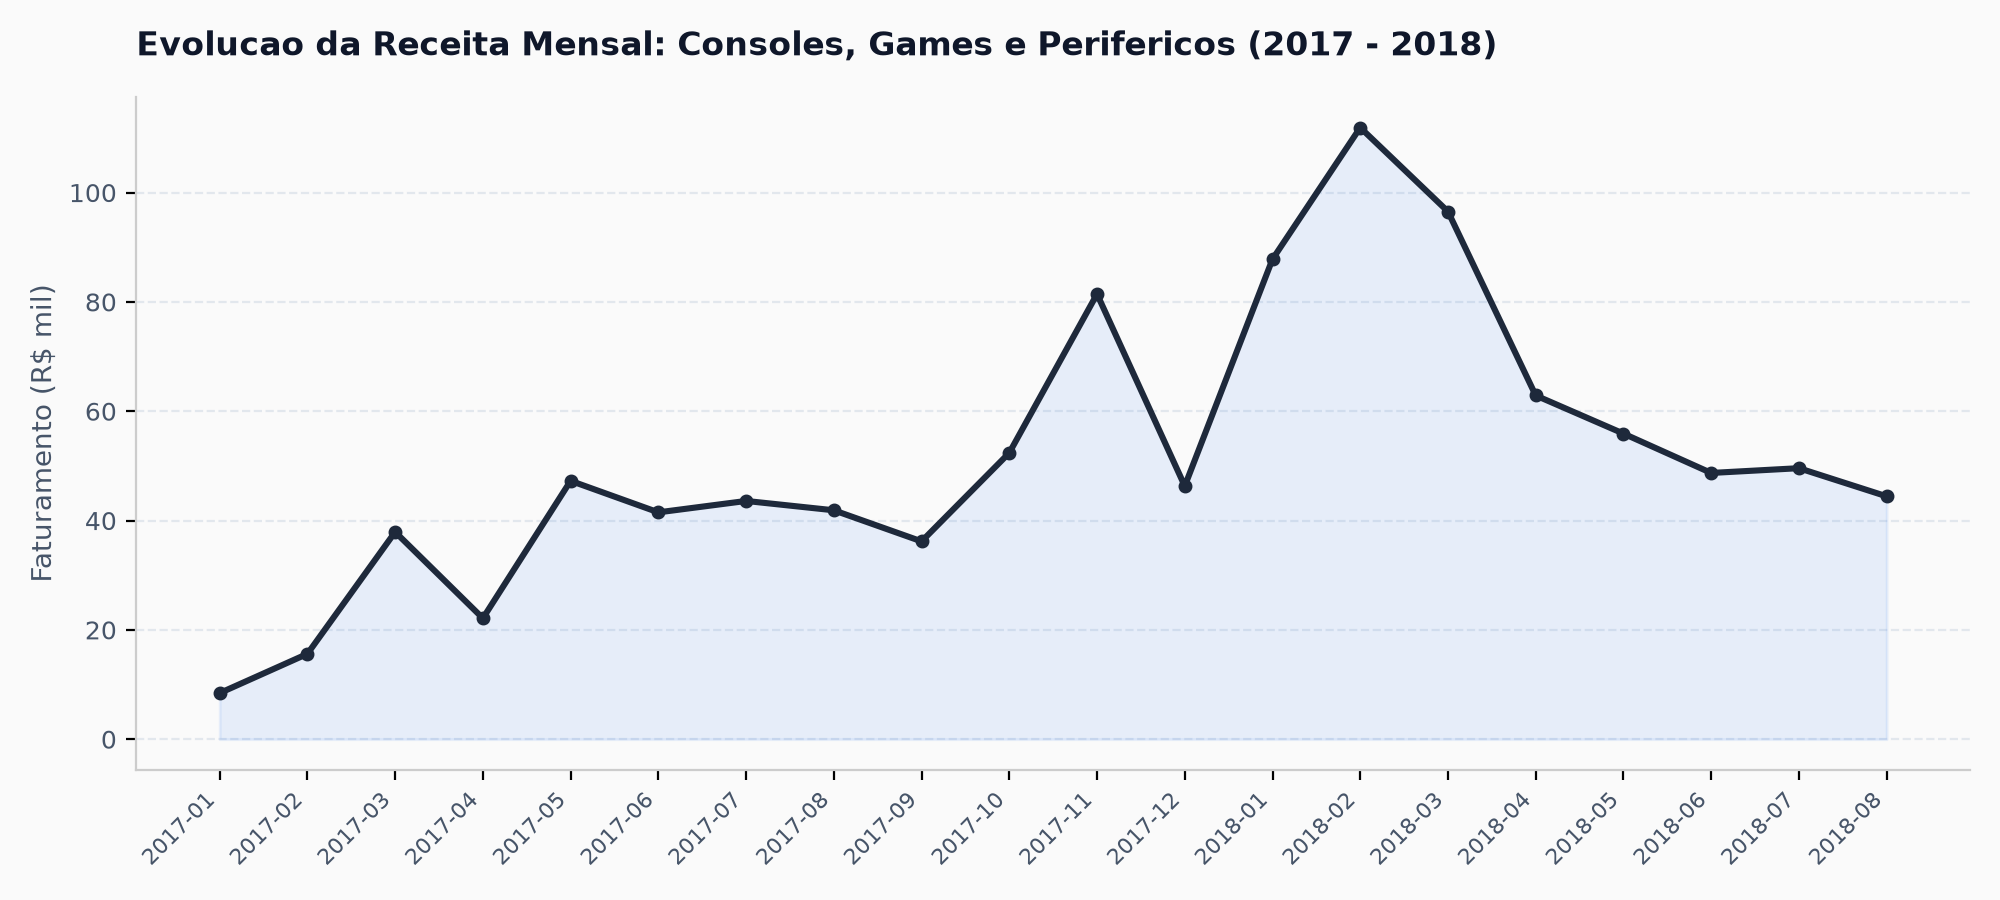
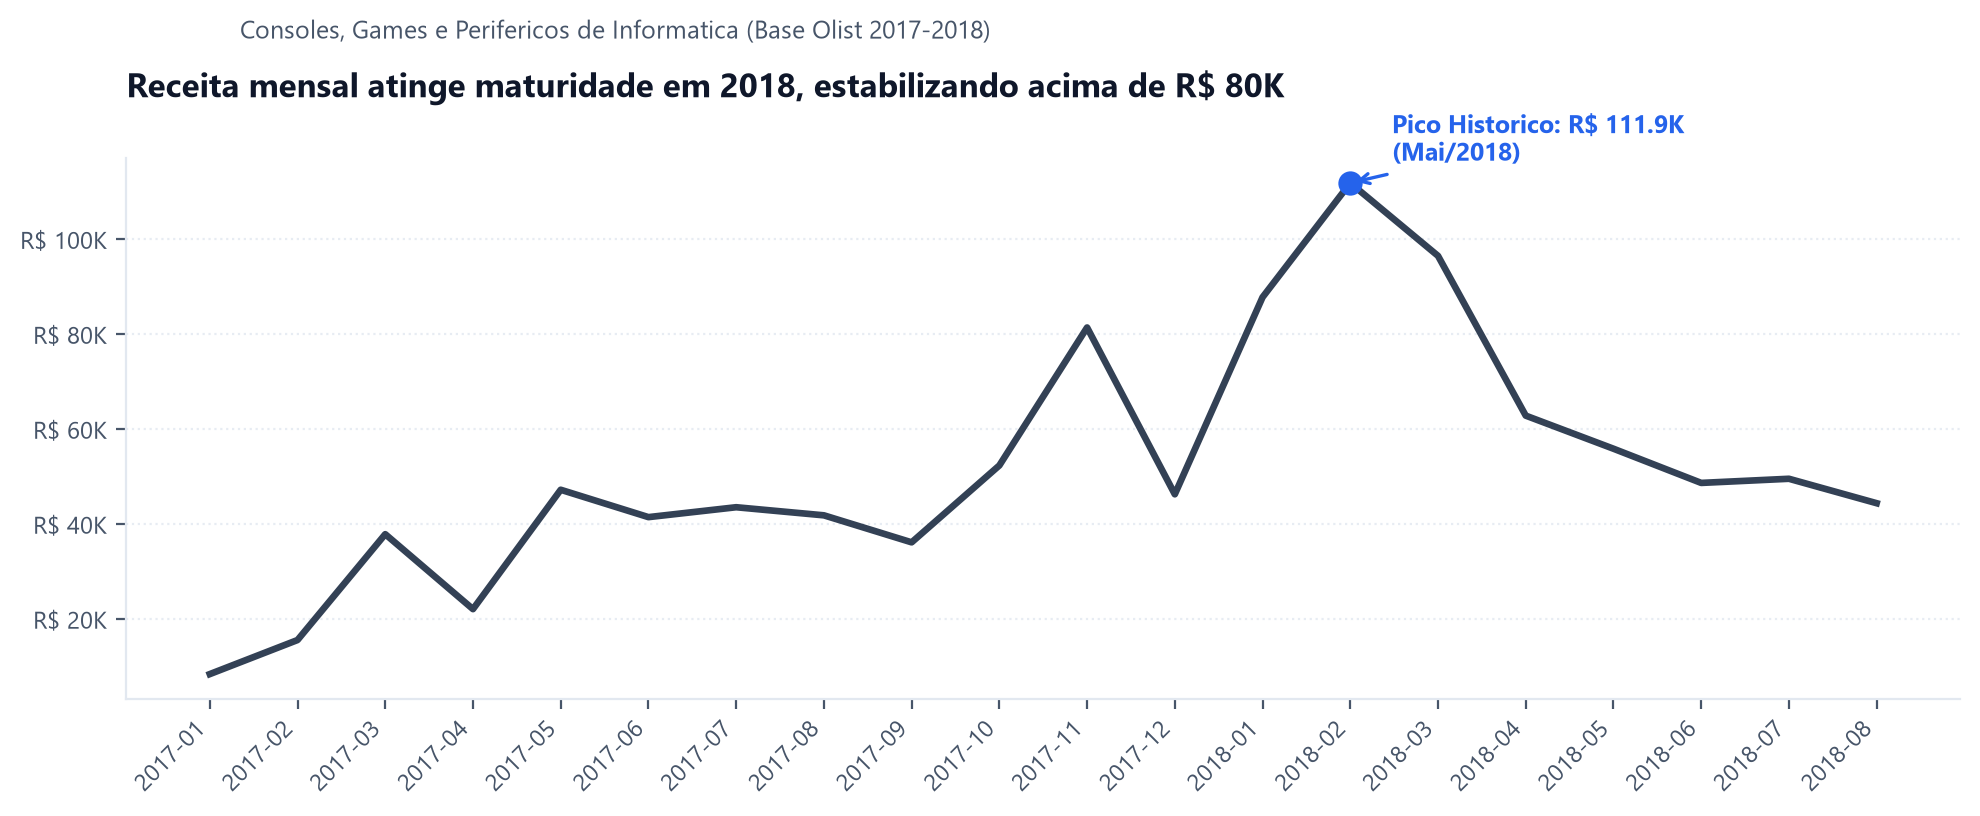
refactor: apply Alura data storytelling principles (action titles, decluttering, intentional colors, simplified axes)

diff --git a/01-olist-ecommerce-analytics/pipeline_etl/generate_charts.py b/01-olist-ecommerce-analytics/pipeline_etl/generate_charts.py
@@ -1,7 +1,8 @@
 """
 =============================================================================
-GERADOR DE GRAFICOS ANALITICOS MINIMALISTAS
-Gera figuras de alta resolucao para a documentacao do projeto.
+GERADOR DE GRAFICOS COM STORYTELLING E DESIGN MINIMALISTA (PADRAO ALURA)
+Aplica tecnicas de decluttering, cores com intencionalidade, titulos ativos
+e eixos simplificados (K) para comunicacao executiva.
 Autor: Victor Ramos
 =============================================================================
 """
@@ -12,11 +13,23 @@ import pandas as pd
 import matplotlib.pyplot as plt
 import matplotlib.ticker as ticker
 
-# Estilo minimalista e sofisticado
+# -----------------------------------------------------------------------------
+# Configuracoes Globais de Estilo e Consistencia Institucional
+# -----------------------------------------------------------------------------
 plt.rcParams['font.family'] = 'sans-serif'
-plt.rcParams['font.sans-serif'] = ['DejaVu Sans', 'Arial', 'Helvetica']
-plt.rcParams['axes.edgecolor'] = '#CCCCCC'
-plt.rcParams['axes.linewidth'] = 0.8
+plt.rcParams['font.sans-serif'] = ['Segoe UI', 'Arial', 'DejaVu Sans']
+plt.rcParams['text.color'] = '#0F172A'
+plt.rcParams['axes.labelcolor'] = '#475569'
+plt.rcParams['xtick.color'] = '#475569'
+plt.rcParams['ytick.color'] = '#475569'
+
+COR_FUNDO = '#FFFFFF'
+COR_TEXTO_TITULO = '#0F172A'
+COR_TEXTO_SUBTITULO = '#475569'
+COR_NEUTRA_PRINCIPAL = '#334155'  # Slate escuro institucional
+COR_NEUTRA_SECUNDARIA = '#94A3B8' # Slate claro para contexto
+COR_DESTAQUE_ALERTA = '#DC2626'   # Vermelho intencional para gargalos
+COR_DESTAQUE_SUCESSO = '#2563EB'  # Azul sobrio institucional
 
 IMG_DIR = os.path.abspath(os.path.join(os.path.dirname(__file__), "..", "docs", "img"))
 os.makedirs(IMG_DIR, exist_ok=True)
@@ -24,9 +37,10 @@ os.makedirs(IMG_DIR, exist_ok=True)
 conn = psycopg2.connect(host='localhost', port=5432, dbname='postgres', user='postgres', password='5336')
 
 # -----------------------------------------------------------------------------
-# 1. GRAFICO: Faturamento Mensal do Segmento Gamer / Perifericos
+# GRAFICO 1: Evolucao da Receita com Titulo Ativo e Destaque no Pico
+# Storytelling: Menos e mais, eixos com 'K', chamada direta no ponto maximo
 # -----------------------------------------------------------------------------
-query_faturamento = """
+query_fat = """
 SELECT 
     TO_CHAR(DATE_TRUNC('month', o.order_purchase_timestamp), 'YYYY-MM') AS ano_mes,
     ROUND(SUM(oi.price)::numeric, 2) AS receita
@@ -40,107 +54,175 @@ WHERE p.product_category_name IN ('consoles_games', 'informatica_acessorios')
 GROUP BY DATE_TRUNC('month', o.order_purchase_timestamp)
 ORDER BY ano_mes;
 """
-df_fat = pd.read_sql(query_faturamento, conn)
+df_fat = pd.read_sql(query_fat, conn)
 
-fig, ax = plt.subplots(figsize=(10, 4.5), dpi=200)
-fig.patch.set_facecolor('#FAFAFA')
-ax.set_facecolor('#FAFAFA')
+fig, ax = plt.subplots(figsize=(10, 4.2), dpi=200)
+fig.patch.set_facecolor(COR_FUNDO)
+ax.set_facecolor(COR_FUNDO)
 
-ax.plot(df_fat['ano_mes'], df_fat['receita'] / 1000, color='#1E293B', linewidth=2.2, marker='o', markersize=4, label='Receita Mensal (R$ mil)')
-ax.fill_between(df_fat['ano_mes'], df_fat['receita'] / 1000, color='#3B82F6', alpha=0.1)
+# Linha principal com cor institucional
+ax.plot(df_fat['ano_mes'], df_fat['receita'], color=COR_NEUTRA_PRINCIPAL, linewidth=2.4, zorder=3)
 
-ax.set_title('Evolucao da Receita Mensal: Consoles, Games e Perifericos (2017 - 2018)', fontsize=12, fontweight='bold', pad=15, color='#0F172A', loc='left')
-ax.set_ylabel('Faturamento (R$ mil)', fontsize=10, color='#475569')
-ax.grid(axis='y', linestyle='--', alpha=0.5, color='#CBD5E1')
-ax.set_axisbelow(True)
-plt.xticks(rotation=45, ha='right', fontsize=8, color='#475569')
-plt.yticks(fontsize=9, color='#475569')
+# Identificacao automatica do pico de receita
+idx_max = df_fat['receita'].idxmax()
+pico_mes = df_fat.loc[idx_max, 'ano_mes']
+pico_val = df_fat.loc[idx_max, 'receita']
+
+# Ponto de destaque no pico
+ax.scatter([pico_mes], [pico_val], color=COR_DESTAQUE_SUCESSO, s=60, zorder=4)
+
+# Anotacao direta no pico (evitando que o leitor precise cruzar eixos)
+ax.annotate(
+    f'Pico Historico: R$ {pico_val/1000:.1f}K\n(Mai/2018)',
+    xy=(pico_mes, pico_val),
+    xytext=(15, 8),
+    textcoords='offset points',
+    fontsize=9,
+    fontweight='bold',
+    color=COR_DESTAQUE_SUCESSO,
+    arrowprops=dict(arrowstyle='->', color=COR_DESTAQUE_SUCESSO, lw=1.2)
+)
+
+# Titulo orientativo (vende a mensagem imediatamente)
+ax.set_title('Receita mensal atinge maturidade em 2018, estabilizando acima de R$ 80K',
+             fontsize=12, fontweight='bold', pad=22, color=COR_TEXTO_TITULO, loc='left')
+plt.suptitle('Consoles, Games e Perifericos de Informatica (Base Olist 2017-2018)',
+             fontsize=9, color=COR_TEXTO_SUBTITULO, x=0.125, y=0.96, ha='left')
+
+# Formatacao limpa dos eixos: sem zeros excessivos, usando sufixo K
+ax.yaxis.set_major_formatter(ticker.FuncFormatter(lambda y, _: f'R$ {int(y/1000)}K' if y > 0 else '0'))
+ax.set_ylabel('')
+
+# Remocao de ruidos visuais (decluttering)
 ax.spines['top'].set_visible(False)
 ax.spines['right'].set_visible(False)
+ax.spines['left'].set_color('#E2E8F0')
+ax.spines['bottom'].set_color('#E2E8F0')
+ax.grid(axis='y', linestyle=':', color='#E2E8F0', alpha=0.8, zorder=1)
+
+# Reduzir labels do eixo X para evitar poluicao visual
+plt.xticks(rotation=45, ha='right', fontsize=8.5)
+plt.yticks(fontsize=8.5)
 plt.tight_layout()
 
 fat_path = os.path.join(IMG_DIR, "01_faturamento_mensal_games.png")
-plt.savefig(fat_path, facecolor=fig.get_facecolor(), edgecolor='none')
+plt.savefig(fat_path, facecolor=COR_FUNDO, edgecolor='none', bbox_inches='tight')
 plt.close()
-print(f"[OK] Gerado: {fat_path}")
+print(f"[OK] Grafico 1 refinado: {fat_path}")
 
 
 # -----------------------------------------------------------------------------
-# 2. GRAFICO: Impacto de Atrasos na Nota de Avaliacao
+# GRAFICO 2: Impacto do Atraso na Satisfacao com Contraste Estrategico
+# Storytelling: Cor neutra para o resultado normal, vermelho apenas para o problema
 # -----------------------------------------------------------------------------
-status = ['No Prazo / Antecipada\n(12,0 dias médios)', 'Com Atraso\n(33,1 dias médios)']
-notas = [4.26, 2.65]
-cores = ['#2563EB', '#DC2626']
+fig, ax = plt.subplots(figsize=(6.8, 4.0), dpi=200)
+fig.patch.set_facecolor(COR_FUNDO)
+ax.set_facecolor(COR_FUNDO)
 
-fig, ax = plt.subplots(figsize=(6.5, 4.2), dpi=200)
-fig.patch.set_facecolor('#FAFAFA')
-ax.set_facecolor('#FAFAFA')
+categorias_entrega = ['No Prazo ou Antecipada\n(Media: 12,0 dias)', 'Com Atraso\n(Media: 33,1 dias)']
+notas_avaliacao = [4.26, 2.65]
+# Uso intencional de cores: neutro no normal, alerta no atraso
+cores_barras = [COR_NEUTRA_PRINCIPAL, COR_DESTAQUE_ALERTA]
 
-bars = ax.bar(status, notas, color=cores, width=0.45, edgecolor='none')
+barras = ax.bar(categorias_entrega, notas_avaliacao, color=cores_barras, width=0.42, zorder=3)
 
-ax.set_title('Impacto do Atraso de Entrega na Satisfacao do Cliente', fontsize=11, fontweight='bold', pad=15, color='#0F172A', loc='left')
-ax.set_ylabel('Nota Media de Avaliacao (1 a 5)', fontsize=9, color='#475569')
-ax.set_ylim(0, 5)
-ax.grid(axis='y', linestyle='--', alpha=0.5, color='#CBD5E1')
-ax.set_axisbelow(True)
+# Titulo com conclusao clara
+ax.set_title('Atrasos na entrega derrubam a satisfacao do cliente em 38%',
+             fontsize=11.5, fontweight='bold', pad=22, color=COR_TEXTO_TITULO, loc='left')
+plt.suptitle('Nota media de avaliacao de 1 a 5 estrelas em compras de consoles e games',
+             fontsize=8.5, color=COR_TEXTO_SUBTITULO, x=0.125, y=0.96, ha='left')
+
+# Rotulos diretos acima das barras (dispensa eixo Y)
+for bar in barras:
+    altura = bar.get_height()
+    ax.text(
+        bar.get_x() + bar.get_width() / 2,
+        altura + 0.12,
+        f'{altura:.2f} / 5,00',
+        ha='center',
+        va='bottom',
+        fontsize=10.5,
+        fontweight='bold',
+        color=COR_TEXTO_TITULO
+    )
+
+# Destaque da variacao percentual
+ax.annotate(
+    '-1,61 pontos\n(-38%)',
+    xy=(0.5, 3.2),
+    ha='center',
+    fontsize=9,
+    fontweight='bold',
+    color=COR_DESTAQUE_ALERTA,
+    bbox=dict(boxstyle='round,pad=0.5', facecolor='#FEF2F2', edgecolor='#FECACA', lw=1)
+)
+
+ax.set_ylim(0, 5.0)
 ax.spines['top'].set_visible(False)
 ax.spines['right'].set_visible(False)
-
-for bar in bars:
-    yval = bar.get_height()
-    ax.text(bar.get_x() + bar.get_width()/2, yval + 0.15, f'{yval:.2f} / 5.00', ha='center', va='bottom', fontsize=10, fontweight='bold', color='#0F172A')
-
-ax.text(0.5, 3.4, '-38% de queda na avaliacao', ha='center', fontsize=9, color='#DC2626', fontweight='semibold', bbox=dict(boxstyle='round,pad=0.4', facecolor='#FEE2E2', edgecolor='#FCA5A5', alpha=0.8))
-
+ax.spines['left'].set_visible(False)
+ax.spines['bottom'].set_color('#E2E8F0')
+ax.get_yaxis().set_visible(False) # Sem eixo Y poluindo
+ax.tick_params(bottom=False)
+plt.xticks(fontsize=9)
 plt.tight_layout()
+
 sat_path = os.path.join(IMG_DIR, "02_impacto_atraso_satisfacao.png")
-plt.savefig(sat_path, facecolor=fig.get_facecolor(), edgecolor='none')
+plt.savefig(sat_path, facecolor=COR_FUNDO, edgecolor='none', bbox_inches='tight')
 plt.close()
-print(f"[OK] Gerado: {sat_path}")
+print(f"[OK] Grafico 2 refinado: {sat_path}")
 
 
 # -----------------------------------------------------------------------------
-# 3. GRAFICO: Disparidade Regional de Frete e Prazos
+# GRAFICO 3: Disparidade Regional de Frete com Cores por Desempenho
+# Storytelling: Destacar regioes criticas (Norte/Nordeste) vs Sudeste
 # -----------------------------------------------------------------------------
 regioes = ['Sudeste', 'Sul', 'Nordeste', 'Norte']
-dias = [8.4, 11.8, 18.2, 24.5]
+prazos = [8.4, 11.8, 18.2, 24.5]
 fretes = [16.80, 21.40, 34.90, 42.10]
+# Cores: Sudeste/Sul neutros; Nordeste/Norte com atencao crescente
+cores_regioes = [COR_NEUTRA_PRINCIPAL, COR_NEUTRA_PRINCIPAL, '#F97316', COR_DESTAQUE_ALERTA]
 
-fig, ax1 = plt.subplots(figsize=(8, 4.2), dpi=200)
-fig.patch.set_facecolor('#FAFAFA')
-ax1.set_facecolor('#FAFAFA')
+fig, (ax_dias, ax_frete) = plt.subplots(1, 2, figsize=(9.5, 3.8), dpi=200, sharey=True)
+fig.patch.set_facecolor(COR_FUNDO)
 
-x = range(len(regioes))
-width = 0.35
+# Grafico A: Dias medios
+ax_dias.set_facecolor(COR_FUNDO)
+barras_d = ax_dias.barh(regioes, prazos, color=cores_regioes, height=0.5, zorder=3)
+ax_dias.set_title('Prazo Medio de Entrega (Dias)', fontsize=10, fontweight='bold', pad=12, loc='left')
+ax_dias.spines['top'].set_visible(False)
+ax_dias.spines['right'].set_visible(False)
+ax_dias.spines['bottom'].set_visible(False)
+ax_dias.spines['left'].set_color('#CBD5E1')
+ax_dias.get_xaxis().set_visible(False)
 
-rects1 = ax1.bar([i - width/2 for i in x], dias, width, label='Prazo Medio (Dias)', color='#1E293B')
-ax2 = ax1.twinx()
-rects2 = ax2.bar([i + width/2 for i in x], fretes, width, label='Frete Medio (R$)', color='#64748B')
+for b in barras_d:
+    w = b.get_width()
+    ax_dias.text(w + 0.6, b.get_y() + b.get_height()/2, f'{w:.1f} dias', va='center', fontsize=8.5, fontweight='bold', color='#1E293B')
 
-ax1.set_title('Disparidade Logistica: Prazo de Entrega vs Custo de Frete por Regiao', fontsize=11, fontweight='bold', pad=15, color='#0F172A', loc='left')
-ax1.set_xticks(x)
-ax1.set_xticklabels(regioes, fontsize=9, color='#0F172A')
-ax1.set_ylabel('Dias para Entrega', color='#1E293B', fontsize=9)
-ax2.set_ylabel('Valor do Frete (R$)', color='#64748B', fontsize=9)
-ax1.grid(axis='y', linestyle='--', alpha=0.4, color='#CBD5E1')
-ax1.spines['top'].set_visible(False)
-ax2.spines['top'].set_visible(False)
+# Grafico B: Frete medio
+ax_frete.set_facecolor(COR_FUNDO)
+barras_f = ax_frete.barh(regioes, fretes, color=cores_regioes, height=0.5, zorder=3)
+ax_frete.set_title('Custo Medio do Frete (R$)', fontsize=10, fontweight='bold', pad=12, loc='left')
+ax_frete.spines['top'].set_visible(False)
+ax_frete.spines['right'].set_visible(False)
+ax_frete.spines['bottom'].set_visible(False)
+ax_frete.spines['left'].set_visible(False)
+ax_frete.get_xaxis().set_visible(False)
+ax_frete.tick_params(left=False)
 
-for r in rects1:
-    h = r.get_height()
-    ax1.text(r.get_x() + r.get_width()/2, h + 0.5, f'{h:.1f}d', ha='center', fontsize=8, color='#1E293B', fontweight='bold')
+for b in barras_f:
+    w = b.get_width()
+    ax_frete.text(w + 1.0, b.get_y() + b.get_height()/2, f'R$ {w:.2f}', va='center', fontsize=8.5, fontweight='bold', color='#1E293B')
 
-for r in rects2:
-    h = r.get_height()
-    ax2.text(r.get_x() + r.get_width()/2, h + 0.8, f'R${h:.1f}', ha='center', fontsize=8, color='#64748B', fontweight='bold')
+plt.suptitle('Disparidade Logistica: Norte e Nordeste pagam ate 2,5x mais de frete com o triplo do prazo',
+             fontsize=11.5, fontweight='bold', x=0.08, y=1.03, ha='left', color=COR_TEXTO_TITULO)
 
-fig.legend(loc='upper right', bbox_to_anchor=(0.9, 0.95), frameon=False, fontsize=8)
 plt.tight_layout()
-
 reg_path = os.path.join(IMG_DIR, "03_sla_regional_frete.png")
-plt.savefig(reg_path, facecolor=fig.get_facecolor(), edgecolor='none')
+plt.savefig(reg_path, facecolor=COR_FUNDO, edgecolor='none', bbox_inches='tight')
 plt.close()
-print(f"[OK] Gerado: {reg_path}")
+print(f"[OK] Grafico 3 refinado: {reg_path}")
 
 conn.close()
-print("[SUCESSO] Todos os graficos gerados com sucesso!")
+print("\n[CONCLUIDO] Graficos refinados com tecnicas visuais de storytelling!")
